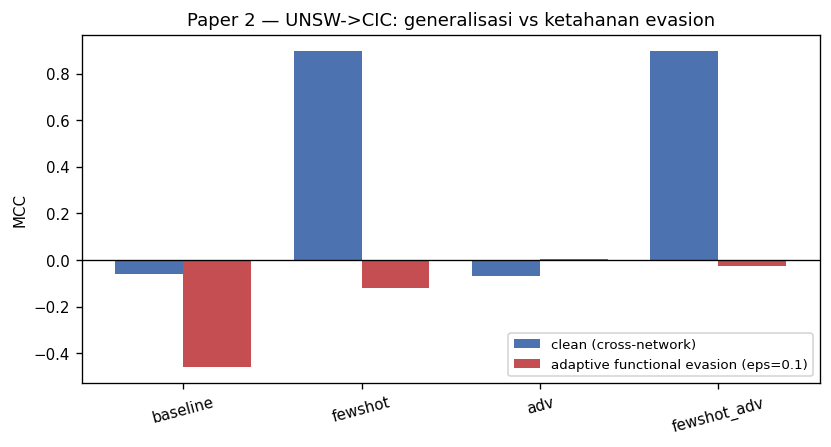
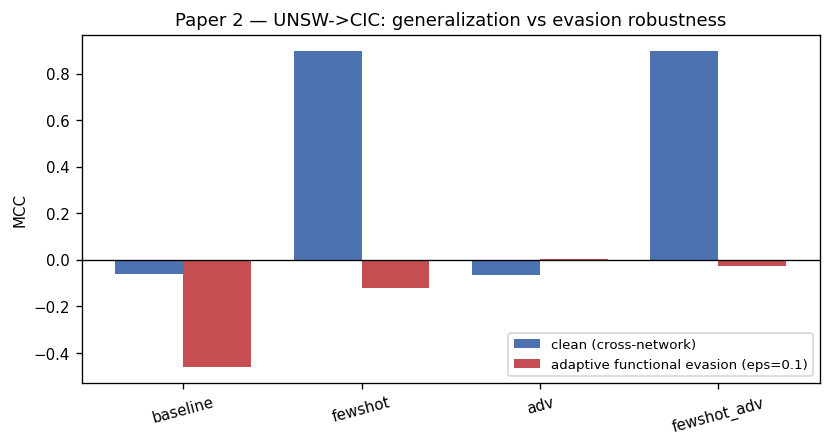
paper2: English untuk semua caption tabel/gambar, header kolom, teks TikZ + regen 2 PNG figure

Changed region(s): [[0.2106, 0.0291, 0.8724, 0.0582], [0.0602, 0.5526, 0.0903, 0.6107]]

diff --git a/unswnb-15/paper2-adversarial.tex b/unswnb-15/paper2-adversarial.tex
@@ -142,12 +142,12 @@ dari sembilan fitur SFM, penggabungan data (sumber $+$ $1\%$ label target
 \begin{figure}[h]
 \centering
 \resizebox{0.95\linewidth}{!}{\input{figure-p2/tikz-p2-pipeline.tex}}
-\caption{Arsitektur pipeline Paper 2. Sembilan fitur SFM $\rightarrow$ gabungan
-data (sumber $+$ $1\%$ target few-shot, z-score fit train-only tanpa kebocoran)
-$\rightarrow$ pembangkitan perturbasi FGSM \emph{functional-preserving}
-$\rightarrow$ \emph{adversarial training} (few-shot$+$adv) pada XGBoost
-$\rightarrow$ evaluasi multi-ancaman (clean, unconstrained, functional-preserving,
-adaptive white-box) pada dua arah dan dua sumbu ketangguhan.}
+\caption{Paper 2 pipeline architecture. Nine SFM features $\rightarrow$ data merge
+(source $+$ $1\%$ few-shot target, z-score fit train-only without leakage)
+$\rightarrow$ \emph{functional-preserving} FGSM perturbation generation
+$\rightarrow$ \emph{adversarial training} (few-shot$+$adv) on XGBoost
+$\rightarrow$ multi-threat evaluation (clean, unconstrained, functional-preserving,
+adaptive white-box) across two directions and two robustness axes.}
 \label{fig:pipeline}
 \end{figure}
 
@@ -227,22 +227,22 @@ mean konsisten, monotonik \emph{add-only})
 % ----- Tabel utama (diisi dari paper2_eval_results.json, notebook 12) -----
 \begin{table}[h]
 \centering
-\caption{MCC empat varian pada dua dimensi: generalisasi lintas-jaringan (kolom
-\emph{clean target}) dan ketahanan \emph{adaptive functional-preserving evasion}
-($\epsilon=0.1$). Kolom terakhir mengukur MCC saat model diserang evasion yang
-sekaligus \emph{adaptive white-box} (saliency dihitung dari model yang diserang itu
-sendiri --- penyerang tahu pertahanan), \emph{functional-preserving} (perturbasi
-dibatasi ke \emph{flow} yang valid protokol dan dapat dikirim), dan berkekuatan
-$\epsilon=0.1$ (pergeseran $\approx 0.1$ simpangan baku per fitur di ruang z-score);
-inilah skenario terberat sekaligus paling realistis. Kolom \emph{clean source}/%
-\emph{clean target} adalah MCC tanpa serangan di jaringan sumber/target. Angka dari
-eksperimen (notebook 12). Nilai lebih tinggi lebih baik; MCC $\le 0$ = setara/lebih
-buruk dari tebakan acak.}
+\caption{MCC of four variants on two dimensions: cross-network generalization
+(\emph{clean target} column) and robustness to \emph{adaptive functional-preserving
+evasion} ($\epsilon=0.1$). The last column reports MCC when the model is attacked by
+an evasion that is simultaneously \emph{adaptive white-box} (saliency computed from
+the attacked model itself --- the attacker knows the defense),
+\emph{functional-preserving} (perturbation restricted to protocol-valid, deliverable
+\emph{flows}), and of strength $\epsilon=0.1$ (a shift of $\approx 0.1$ standard
+deviations per feature in z-score space); this is the hardest yet most realistic
+scenario. The \emph{clean (source)}/\emph{clean (target)} columns are MCC without
+attack on the source/target network. Values from experiments (notebook 12). Higher
+is better; MCC $\le 0$ = equal to/worse than random guessing.}
 \label{tab:p2main}
 \small
 \begin{tabular}{llccc}
 \toprule
-Arah & Varian & clean (source) & clean (target) & adaptive evasion ($\epsilon=0.1$) \\
+Direction & Variant & clean (source) & clean (target) & adaptive evasion ($\epsilon=0.1$) \\
 \midrule
 \multirow{4}{*}{CIC$\rightarrow$UNSW}
  & baseline     & $0{,}913$ & $-0{,}074$ & $0{,}370$ \\
@@ -262,18 +262,18 @@ Arah & Varian & clean (source) & clean (target) & adaptive evasion ($\epsilon=0.
 \begin{figure}[h]
 \centering
 \includegraphics[width=0.8\linewidth]{figure-p2/paper2_CIC_to_UNSW.png}
-\caption{CIC$\rightarrow$UNSW: perbandingan generalisasi (clean cross-network) vs
-ketahanan \emph{adaptive functional evasion} ($\epsilon=0.1$) untuk keempat varian.}
+\caption{CIC$\rightarrow$UNSW: comparison of generalization (clean cross-network) vs
+robustness to \emph{adaptive functional evasion} ($\epsilon=0.1$) for the four variants.}
 \label{fig:p2c2u}
 \end{figure}
 
 \begin{figure}[h]
 \centering
 \includegraphics[width=0.8\linewidth]{figure-p2/paper2_UNSW_to_CIC.png}
-\caption{UNSW$\rightarrow$CIC: perbandingan generalisasi vs ketahanan
-\emph{adaptive functional evasion} ($\epsilon=0.1$). \emph{Few-shot} menjaga
-generalisasi ($0{,}897$) tetapi ketahanan \emph{adaptive} tetap runtuh untuk semua
-varian \textbf{pada arah ini} --- temuan asimetri yang dilaporkan apa adanya.}
+\caption{UNSW$\rightarrow$CIC: comparison of generalization vs robustness to
+\emph{adaptive functional evasion} ($\epsilon=0.1$). \emph{Few-shot} preserves
+generalization ($0{,}897$) but \emph{adaptive} robustness still collapses for all
+variants \textbf{in this direction} --- an asymmetry finding reported as-is.}
 \label{fig:p2u2c}
 \end{figure}
 
@@ -362,17 +362,17 @@ FGSM \emph{functional-preserving} (adaptive) pada fitur yang diekstrak
 
 \begin{table}[h]
 \centering
-\caption{PoC validasi AWS (arah CIC$\rightarrow$UNSW): MCC empat varian pada trafik
-nyata --- \emph{clean} (4789 flow; 4167 serangan, 622 benign), \emph{evasion
-network-level} (3099 flow; 3041 serangan, 58 benign), dan tambahan FGSM
-\emph{functional-preserving} ($\epsilon=0.1$) pada fitur nyata. Infra \& skrip:
-\texttt{adv-vpc.yaml}, \texttt{adv-2ec2.yaml}, \texttt{atk2.sh},
+\caption{AWS validation PoC (CIC$\rightarrow$UNSW direction): MCC of four variants on
+real traffic --- \emph{clean} (4789 flows; 4167 attack, 622 benign),
+\emph{network-level evasion} (3099 flows; 3041 attack, 58 benign), and an additional
+\emph{functional-preserving} FGSM ($\epsilon=0.1$) on the real features. Infra \&
+scripts: \texttt{adv-vpc.yaml}, \texttt{adv-2ec2.yaml}, \texttt{atk2.sh},
 \texttt{adv-extract-infer.py}; region \texttt{ap-southeast-1}.}
 \label{tab:aws}
 \small
 \begin{tabular}{lccc}
 \toprule
-Varian model & clean (AWS) & evasion network-level & $+$FGSM functional ($\epsilon=0.1$) \\
+Model variant & clean (AWS) & network-level evasion & $+$functional FGSM ($\epsilon=0.1$) \\
 \midrule
 baseline     & $-0{,}022$ & $-0{,}061$ & $-0{,}143$ \\
 few-shot     & $-0{,}068$ & $-0{,}160$ & $-0{,}616$ \\
@@ -384,17 +384,17 @@ few-shot+adv & $\phantom{-}0{,}000$ & $\phantom{-}0{,}000$ & $-0{,}300$ \\
 
 \begin{table}[h]
 \centering
-\caption{PoC validasi AWS (arah UNSW$\rightarrow$CIC): MCC empat varian pada trafik
-nyata yang sama, plus \emph{recall}/\emph{precision} pada trafik \emph{clean} sebagai
-konteks. Berbeda dari model sumber-CIC yang memprediksi seragam (\emph{recall}$\approx
-0$), model sumber-UNSW aktif menandai flow --- terutama \emph{few-shot$+$adv} yang
-menangkap $95{,}4\%$ serangan. MCC rendah di sini terutama artefak ketidakseimbangan
-kelas (lihat pembahasan). Ground-truth identik dengan Tabel~\ref{tab:aws}.}
+\caption{AWS validation PoC (UNSW$\rightarrow$CIC direction): MCC of four variants on
+the same real traffic, plus \emph{recall}/\emph{precision} on \emph{clean} traffic
+for context. Unlike the CIC-source model that predicts uniformly (\emph{recall}$\approx
+0$), the UNSW-source model actively flags flows --- especially \emph{few-shot$+$adv}
+which catches $95{,}4\%$ of attacks. The low MCC here is mainly an artifact of class
+imbalance (see discussion). Ground-truth identical to Table~\ref{tab:aws}.}
 \label{tab:aws_unsw}
 \small
 \begin{tabular}{lccccc}
 \toprule
-Varian model & clean (AWS) & evasion & $+$FGSM ($\epsilon{=}0.1$) & recall (clean) & prec. (clean) \\
+Model variant & clean (AWS) & evasion & $+$FGSM ($\epsilon{=}0.1$) & recall (clean) & prec. (clean) \\
 \midrule
 baseline     & $-0{,}401$ & $-0{,}011$ & $-0{,}655$ & $0{,}064$ & $0{,}492$ \\
 few-shot     & $-0{,}392$ & $-0{,}003$ & $-0{,}641$ & $0{,}059$ & $0{,}485$ \\

diff --git a/unswnb-15/figure-p2/tikz-p2-pipeline.tex b/unswnb-15/figure-p2/tikz-p2-pipeline.tex
@@ -1,4 +1,4 @@
-% TikZ-only (input-able) - arsitektur pipeline Paper 2.
+% TikZ-only (input-able) - Paper 2 pipeline architecture.
 % Requires: \usepackage{tikz}\usetikzlibrary{arrows.meta,positioning,fit,backgrounds}
 \begin{tikzpicture}[
   font=\footnotesize, >={Stealth[length=2.6mm]},
@@ -9,24 +9,24 @@
   a/.style={->, line width=1pt, draw=black!65},
 ]
 % Baris atas: pembentukan data + model
-\node[data] (sfm) {9 fitur SFM\\(CIC $\&$ UNSW)};
-\node[data, right=7mm of sfm] (mix) {Gabung data\\source $+$ $1\%$\\target (few-shot)};
-\node[proc, right=7mm of mix] (fgsm) {Bangkitkan\\perturbasi FGSM\\\emph{functional-}\\\emph{preserving}};
+\node[data] (sfm) {9 SFM features\\(CIC $\&$ UNSW)};
+\node[data, right=7mm of sfm] (mix) {Merge data\\source $+$ $1\%$\\target (few-shot)};
+\node[proc, right=7mm of mix] (fgsm) {Generate\\FGSM perturbation\\\emph{functional-}\\\emph{preserving}};
 \node[train, right=7mm of fgsm] (advtr) {\emph{Adversarial}\\\emph{training}\\(few-shot$+$adv)\\XGBoost};
 \draw[a] (sfm) -- (mix);
 \draw[a] (mix) -- (fgsm);
 \draw[a] (fgsm) -- (advtr);
 % z-score no-leakage note
 \node[font=\scriptsize\itshape, below=1mm of mix, text width=26mm, align=center]
-  {z-score fit train-only\\(tanpa kebocoran)};
+  {z-score fit train-only\\(no leakage)};
 
-% Baris bawah: evaluasi multi-threat
+% Bottom row: multi-threat evaluation
 \node[eval, below=14mm of advtr, text width=30mm] (evalm)
-  {\textbf{Evaluasi multi-ancaman}\\clean $\cdot$ unconstrained\\functional-preserving\\\emph{adaptive white-box}};
+  {\textbf{Multi-threat evaluation}\\clean $\cdot$ unconstrained\\functional-preserving\\\emph{adaptive white-box}};
 \draw[a] (advtr) -- (evalm);
-% dua arah + dua sumbu metrik
+% two directions + two metric axes
 \node[b, fill=black!4, below=8mm of sfm, text width=52mm, align=left] (out)
-  {\textbf{Keluaran (MCC):} 2 arah (CIC$\to$UNSW, UNSW$\to$CIC)\\
-   $\times$ 2 sumbu: generalisasi lintas-jaringan $\&$ ketahanan evasion};
+  {\textbf{Output (MCC):} 2 directions (CIC$\to$UNSW, UNSW$\to$CIC)\\
+   $\times$ 2 axes: cross-network generalization $\&$ evasion robustness};
 \draw[a] (evalm.west) -- ++(-1.0,0) |- (out.east);
 \end{tikzpicture}
